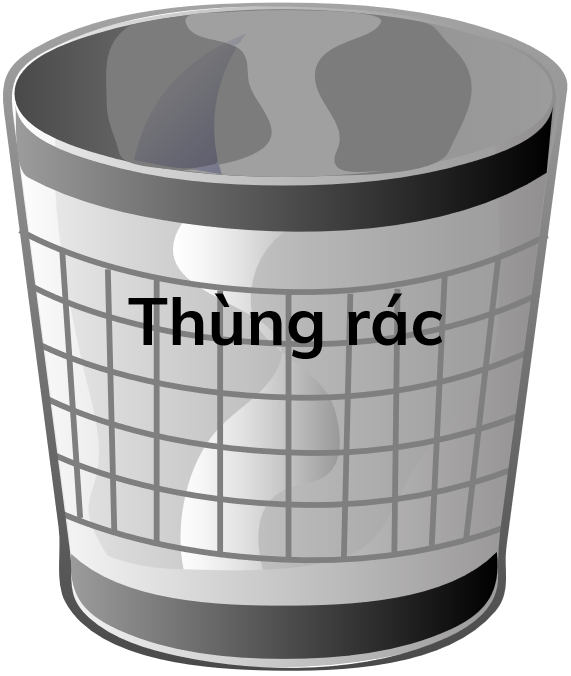
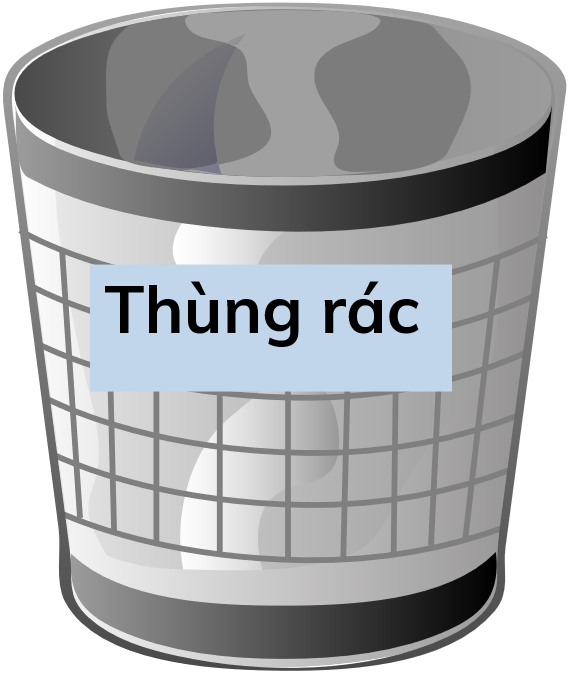
fghj

Changed region(s): [[0.1491, 0.3728, 0.8053, 0.5902]]

diff --git a/docs/list-lap.html b/docs/list-lap.html
@@ -32,10 +32,10 @@
                                 <img class="in-game oj7-slide" src="./images/7.svg" onclick="goListLap()" />
                                 <img class="in-game oj12-slide" src="./images/12.svg" onclick="goListLap()" />
                                 <img class="in-game oj19-slide" src="./images/19.png" />
-                                <img class="in-game oj20-slide" src="./images/20.svg" />
+                                <img class="in-game oj20-slide" src="./images/20-1.png" />
                                 <div class="in-game oj13-slide">
                                     <span class="oj13-detail">
-                                        <b>LAP1</b></span>
+                                        <b>LAB1</b></span>
                                 </div>
                             </div>
                         </div>
@@ -44,10 +44,10 @@
                                 <img class="in-game oj7-slide" src="./images/7.svg" onclick="goListLap()" />
                                 <img class="in-game oj12-slide" src="./images/12.svg" onclick="goListLap()" />
                                 <img class="in-game oj19-slide" src="./images/19.png" />
-                                <img class="in-game oj20-slide" src="./images/20.svg" />
+                                <img class="in-game oj20-slide" src="./images/20-2.svg" />
                                 <div class="in-game oj13-slide">
                                     <span class="oj13-detail">
-                                        <b>LAP2</b></span>
+                                        <b>LAB2</b></span>
                                 </div>
                             </div>
                         </div>
@@ -56,10 +56,10 @@
                                 <img class="in-game oj7-slide" src="./images/7.svg" onclick="goListLap()" />
                                 <img class="in-game oj12-slide" src="./images/12.svg" onclick="goListLap()" />
                                 <img class="in-game oj19-slide" src="./images/19.png" />
-                                <img class="in-game oj20-slide" src="./images/20.svg" />
+                                <img class="in-game oj20-slide" src="./images/20-3.svg" />
                                 <div class="in-game oj13-slide">
                                     <span class="oj13-detail">
-                                        <b>LAP3</b></span>
+                                        <b>LAB3</b></span>
                                 </div>
                             </div>
                         </div>

diff --git a/docs/start-practice.html b/docs/start-practice.html
@@ -36,9 +36,9 @@
                 <img class="in-game tb9-prac " src="./images/tb9.png" />
                 <img class="in-game tb10-prac " src="./images/tb10.png" />
 
-                <img class="in-game tb11-prac thungrac " src="./images/tb11.svg" />
-                <img class="in-game tb12-prac thungrac" src="./images/tb12.svg" />
-                <img class="in-game tb13-prac thungrac" src="./images/tb13.svg" />
+                <img class="in-game tb11-prac thungrac " src="./images/tb11.png" />
+                <img class="in-game tb12-prac thungrac" src="./images/tb12.png" />
+                <img class="in-game tb13-prac thungrac" src="./images/tb13.png" />
 
                 <span class="button-don-dep " onclick="dondep()">  Thu dọn</span>
                 <span class="button-hoanthanh " onclick="goListLap()">  Hoàn thành</span>

diff --git a/docs/index.html b/docs/index.html
@@ -19,12 +19,13 @@
     <div class="area">
         <div id="main-layout" class="layout-index">
             <img class="in-game person" src="./images/3.svg" />
-            <div class="in-game text-intro">
+            <img class="in-game oj4" src="./images/4.png" />
+            <!-- <div class="in-game text-intro">
                 <span class="text-intro-detail">
                     <b>Chào mừng con đến với phòng thí nghiệm ảo V.L.A!</b><br
                     >Hãy chọn "BẮT ĐẦU" để vào phòng thí nghiệm và khám phá thế giới khoa học cùng Tiến sĩ A nhé!
                 </span>
-            </div>
+            </div> -->
             <div class="in-game start-button">
                 <button class=" button-custom" role="button" onclick="goPrepare()">  BẮT ĐẦU</button>
             </div>

diff --git a/docs/css/style.css b/docs/css/style.css
@@ -188,7 +188,7 @@ html {
 }
 
 .person {
-    width: 200px;
+    width: 20%;
     bottom: 30px;
     left: 10%;
     transition: transform .2s;
@@ -197,6 +197,12 @@ html {
 .person:hover {
     transform: scale(1.05);
     cursor: pointer;
+}
+
+.oj4 {
+    width: 50%;
+    bottom: 37%;
+    left: 2%;
 }
 
 .text-intro {
@@ -270,15 +276,9 @@ html {
 }
 
 .oj13 {
-    background-image: url(../images/13.svg);
-    width: 95px;
-    height: 50px;
-    bottom: 59%;
+    width: 15%;
+    bottom: 56%;
     left: 33%;
-    background-repeat: no-repeat;
-    background-size: 100% 100%;
-    padding: 0px 10px 0px 23px;
-    font-size: 30px;
 }
 
 .oj16 {

diff --git a/docs/prepare.html b/docs/prepare.html
@@ -42,10 +42,7 @@
 
                 <img class="in-game oj12" src="./images/12.svg" onclick="goListLap()" />
 
-                <div class="in-game oj13">
-                    <span class="oj13-detail">
-                    <b>V.L.A</b></span>
-                </div>
+                <img class="in-game oj13" src="./images/13.png" />
 
 
                 <img id="oj15-1" class="in-game oj-choo oj15 oj15-1 oj-scale-choose" src="./images/15.svg" />
